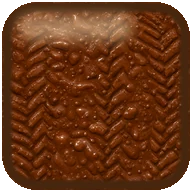
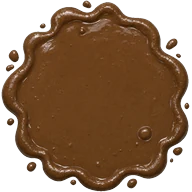
Nuove pozze di fango AI
Claude-Session: https://claude.ai/code/session_01NjZ5nCUSF4CmAmZvgnbkuH

diff --git a/index.html b/index.html
@@ -5,7 +5,7 @@
 <meta name="viewport" content="width=device-width, initial-scale=1, viewport-fit=cover, user-scalable=no">
 <meta name="theme-color" content="#2a8a37">
 <title>EDT Kingdom</title>
-<link rel="stylesheet" href="style.css?v=3">
+<link rel="stylesheet" href="style.css?v=4">
 <link rel="manifest" href="manifest.json">
 <link rel="icon" href="icon.svg" type="image/svg+xml">
 </head>
@@ -57,6 +57,6 @@
   </div>
   <div id="toast" class="toast"></div>
 </div>
-<script type="module" src="js/game.js?v=3"></script>
+<script type="module" src="js/game.js?v=4"></script>
 </body>
 </html>
